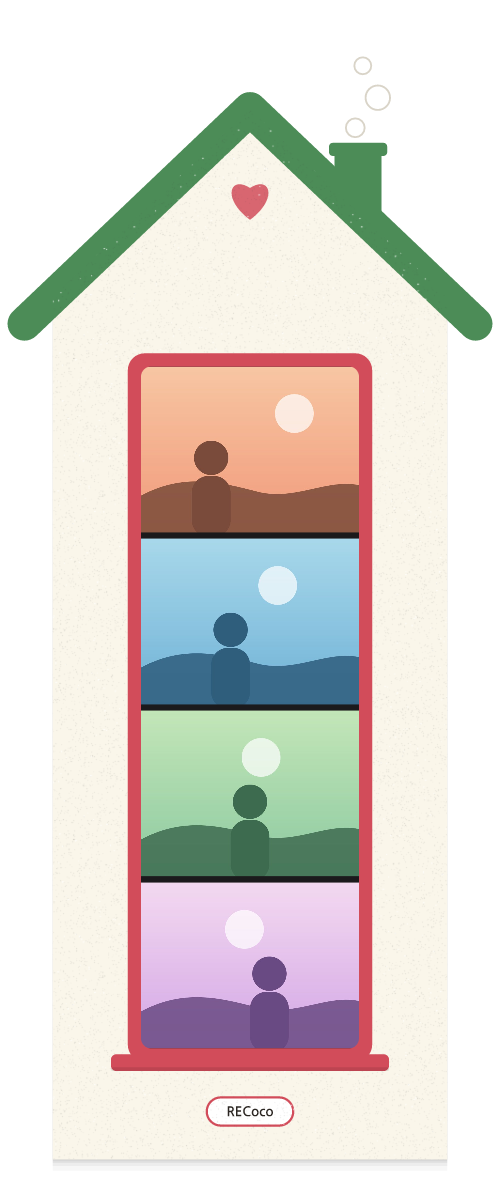
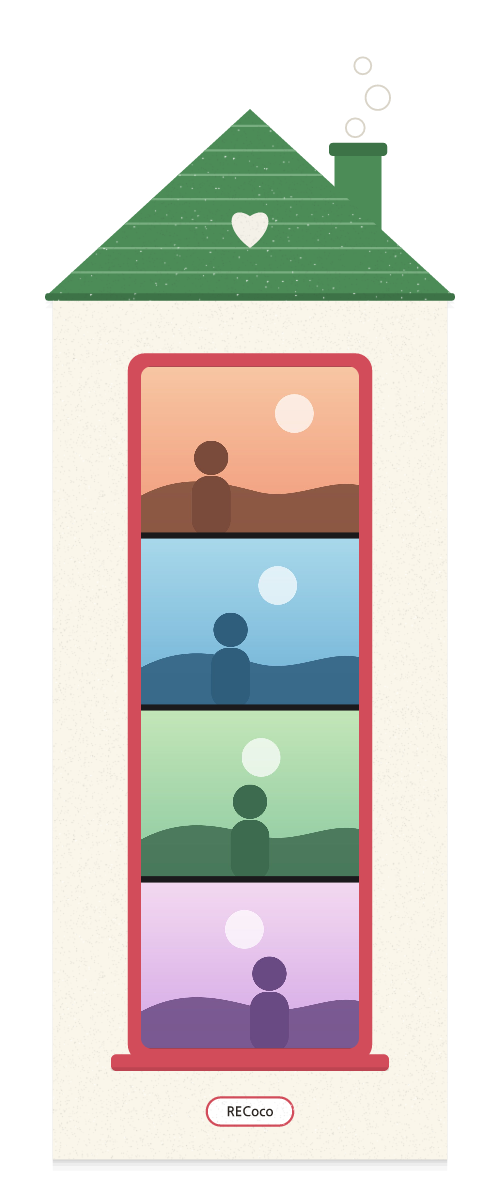
하우스네컷: 초록 지붕도 꽉 찬 삼각 지붕으로 (굴뚝·연기 유지, 처마는 곧은 선)

Changed region(s): [[0.0, 0.0618, 0.99, 0.3091]]

diff --git a/app/src/templates/FourcutHouse.tsx b/app/src/templates/FourcutHouse.tsx
@@ -33,7 +33,7 @@ export const FOURCUT_HOUSE_COLORS: Record<FourcutHouseColor, { name: string; roo
   pink: { name: '분홍', roof: 'stripe', tile: '#eaa7b6', pattern: '#f8dbe2', wall: '#fbf1ee', frame: '#8a6448', swatch: '#eaa7b6' },
   blue: { name: '파랑', roof: 'grid', tile: '#4a6cc0', pattern: '#dfe7fb', wall: '#ebebeb', frame: '#8a6448', swatch: '#4a6cc0' },
   red: { name: '빨강', roof: 'dots', tile: '#d2525e', pattern: '#fff5f2', wall: '#e9f2fa', frame: '#4f8a5b', swatch: '#d2525e' },
-  green: { name: '초록', roof: 'chimney', tile: '#4c8c57', pattern: '#4c8c57', wall: '#faf6ea', frame: '#d24c5a', swatch: '#4c8c57' },
+  green: { name: '초록', roof: 'chimney', tile: '#4c8c57', pattern: '#78ae80', wall: '#faf6ea', frame: '#d24c5a', swatch: '#4c8c57' },
 };
 
 export const FOURCUT_HOUSE_COLOR_IDS = Object.keys(FOURCUT_HOUSE_COLORS) as FourcutHouseColor[];
@@ -70,10 +70,9 @@ export function layoutFourcutHouse(r: FourcutRecord): TemplateLayout {
 const roofShape = (g: Geo) =>
   g.color.roof === 'stripe' ? `M${X0 - 10},${g.wallTop} L${X0 + 44},${g.top} H${X1 - 44} L${X1 + 10},${g.wallTop} Z` : `M${X0 - 8},${g.wallTop} L${CX},${g.top} L${X1 + 8},${g.wallTop} Z`;
 
-/** 집 윤곽 (그림자·질감용). 초록은 벽 꼭대기가 뾰족하다 */
+/** 집 윤곽 (그림자·질감용) */
 function outline(g: Geo) {
-  const { color, top, wallTop, wallBot } = g;
-  if (color.roof === 'chimney') return `M${X0},${wallTop} L${CX},${top} L${X1},${wallTop} V${wallBot} H${X0} Z`;
+  const { wallTop, wallBot } = g;
   return `M${X0},${wallTop} H${X1} V${wallBot} H${X0} Z ${roofShape(g)}`;
 }
 
@@ -130,46 +129,31 @@ function Scallop({ y, x0, x1, fill }: { y: number; x0: number; x1: number; fill:
   return <Path d={`${d} Z`} fill={fill} />;
 }
 
+/** 초록 지붕 굴뚝 + 서로 떨어진 연기 동그라미 (지붕 뒤에 그린다) */
+function Chimney({ g }: { g: Geo }) {
+  const { color, top, wallTop } = g;
+  const slope = (wallTop - top) / (CX - X0);
+  const chX = X1 - 120;
+  const chTop = top + 40;
+  return (
+    <G>
+      {[
+        // 동그라미끼리 떨어뜨려 한 김씩 피어오르게
+        [chX + 22, chTop - 20, 10],
+        [chX + 46, chTop - 52, 13],
+        [chX + 30, chTop - 86, 9],
+      ].map(([cx, cy, r], i) => (
+        <Circle key={i} cx={cx} cy={cy} r={r} fill="#fff" stroke="#d9d4c8" strokeWidth={2} />
+      ))}
+      <Rect x={chX} y={chTop} width={50} height={wallTop - chTop - (X1 - chX - 50) * slope + 10} rx={4} fill={color.tile} />
+      <Rect x={chX - 6} y={chTop - 4} width={62} height={14} rx={4} fill="#3d7347" />
+    </G>
+  );
+}
+
 function RoofArt({ g, id }: { g: Geo; id: string }) {
   const { color, top, wallTop } = g;
   const clip = `${id}-roof`;
-
-  if (color.roof === 'chimney') {
-    // 벽이 뾰족하게 올라가고, 그 두 변을 따라 굵은 초록 띠가 처마처럼 걸린다. 굴뚝에선 연기가 몽글몽글
-    const slope = (wallTop - top) / (CX - X0);
-    const over = 30;
-    const chX = X1 - 120;
-    const chTop = top + 40;
-    return (
-      <G>
-        {[
-          // 동그라미끼리 떨어뜨려 한 김씩 피어오르게
-          [chX + 22, chTop - 20, 10],
-          [chX + 46, chTop - 52, 13],
-          [chX + 30, chTop - 86, 9],
-        ].map(([cx, cy, r], i) => (
-          <Circle key={i} cx={cx} cy={cy} r={r} fill="#fff" stroke="#d9d4c8" strokeWidth={2} />
-        ))}
-        <Rect x={chX} y={chTop} width={50} height={wallTop - chTop - (X1 - chX - 50) * slope + 10} rx={4} fill={color.tile} />
-        <Rect x={chX - 6} y={chTop - 4} width={62} height={14} rx={4} fill={color.tile} />
-        <Path d={`M${X0},${wallTop} L${CX},${top} L${X1},${wallTop} Z`} fill={color.wall} />
-        <Path
-          d={`M${X0 - over},${wallTop + over * slope} L${CX},${top} L${X1 + over},${wallTop + over * slope}`}
-          stroke={color.tile}
-          strokeWidth={36}
-          fill="none"
-          strokeLinejoin="round"
-          strokeLinecap="round"
-        />
-        {/* 꼭대기 아래 작은 하트 창 */}
-        <Path
-          d={`M${CX},${top + 118} C${CX - 30},${top + 96} ${CX - 22},${top + 70} ${CX},${top + 84} C${CX + 22},${top + 70} ${CX + 30},${top + 96} ${CX},${top + 118} Z`}
-          fill={color.frame}
-          opacity={0.85}
-        />
-      </G>
-    );
-  }
 
   const shape = roofShape(g);
   const rand = seededRandom(`${id}-dots`);
@@ -180,8 +164,12 @@ function RoofArt({ g, id }: { g: Geo; id: string }) {
           <Path d={shape} />
         </ClipPath>
       </Defs>
+      {color.roof === 'chimney' && <Chimney g={g} />}
       <Path d={shape} fill={color.tile} />
       <G clipPath={`url(#${clip})`}>
+        {/* 초록 지붕: 가로 기와 줄 */}
+        {color.roof === 'chimney' &&
+          Array.from({ length: 9 }, (_, i) => <Line key={i} x1={X0 - 10} y1={wallTop - 26 - i * 26} x2={X1 + 10} y2={wallTop - 26 - i * 26} stroke={color.pattern} strokeWidth={2.4} />)}
         {color.roof === 'stripe' &&
           Array.from({ length: 22 }, (_, i) => <Line key={i} x1={X0 + 6 + i * 20} y1={top} x2={X0 + 6 + i * 20} y2={wallTop} stroke={color.pattern} strokeWidth={2.4} />)}
         {color.roof === 'grid' && (
@@ -207,8 +195,19 @@ function RoofArt({ g, id }: { g: Geo; id: string }) {
           <Line x1={CX} y1={wallTop - 120} x2={CX} y2={wallTop - 44} stroke={color.tile} strokeWidth={4} />
         </G>
       )}
-      {/* 처마 끝 물결 (벽 쪽으로 늘어진다) */}
-      <Scallop y={wallTop - 1} x0={X0 - (color.roof === 'stripe' ? 10 : 8)} x1={X1 + (color.roof === 'stripe' ? 10 : 8)} fill={color.tile} />
+      {/* 초록 지붕엔 작은 하트 창 */}
+      {color.roof === 'chimney' && (
+        <Path
+          d={`M${CX},${wallTop - 52} C${CX - 30},${wallTop - 74} ${CX - 22},${wallTop - 100} ${CX},${wallTop - 86} C${CX + 22},${wallTop - 100} ${CX + 30},${wallTop - 74} ${CX},${wallTop - 52} Z`}
+          fill="#f4f1e8"
+        />
+      )}
+      {/* 처마 끝: 초록은 곧은 선, 나머지는 물결 (벽 쪽으로 늘어진다) */}
+      {color.roof === 'chimney' ? (
+        <Rect x={X0 - 8} y={wallTop - 4} width={X1 - X0 + 16} height={8} rx={3} fill="#3d7347" />
+      ) : (
+        <Scallop y={wallTop - 1} x0={X0 - (color.roof === 'stripe' ? 10 : 8)} x1={X1 + (color.roof === 'stripe' ? 10 : 8)} fill={color.tile} />
+      )}
     </G>
   );
 }

diff --git a/app/src/components/ThemePicker.tsx b/app/src/components/ThemePicker.tsx
@@ -666,8 +666,8 @@ export function FourcutDesignSwatch({ design, size = 44, color, houseColor }: { 
         <Rect x={9} y={15} width={22} height={36} fill={c.wall} stroke={COLORS.line} strokeWidth={0.8} />
         {c.roof === 'chimney' ? (
           <G>
-            <Rect x={24} y={4} width={4} height={8} fill={c.tile} />
-            <Path d="M6 18 L20 4 L34 18" stroke={c.tile} strokeWidth={4} fill="none" />
+            <Rect x={25} y={5} width={4} height={8} fill={c.tile} />
+            <Path d="M8 16 L20 2 L32 16 Z" fill={c.tile} />
           </G>
         ) : c.roof === 'stripe' ? (
           <Path d="M8 16 L12 6 H28 L32 16 Z" fill={c.tile} />
